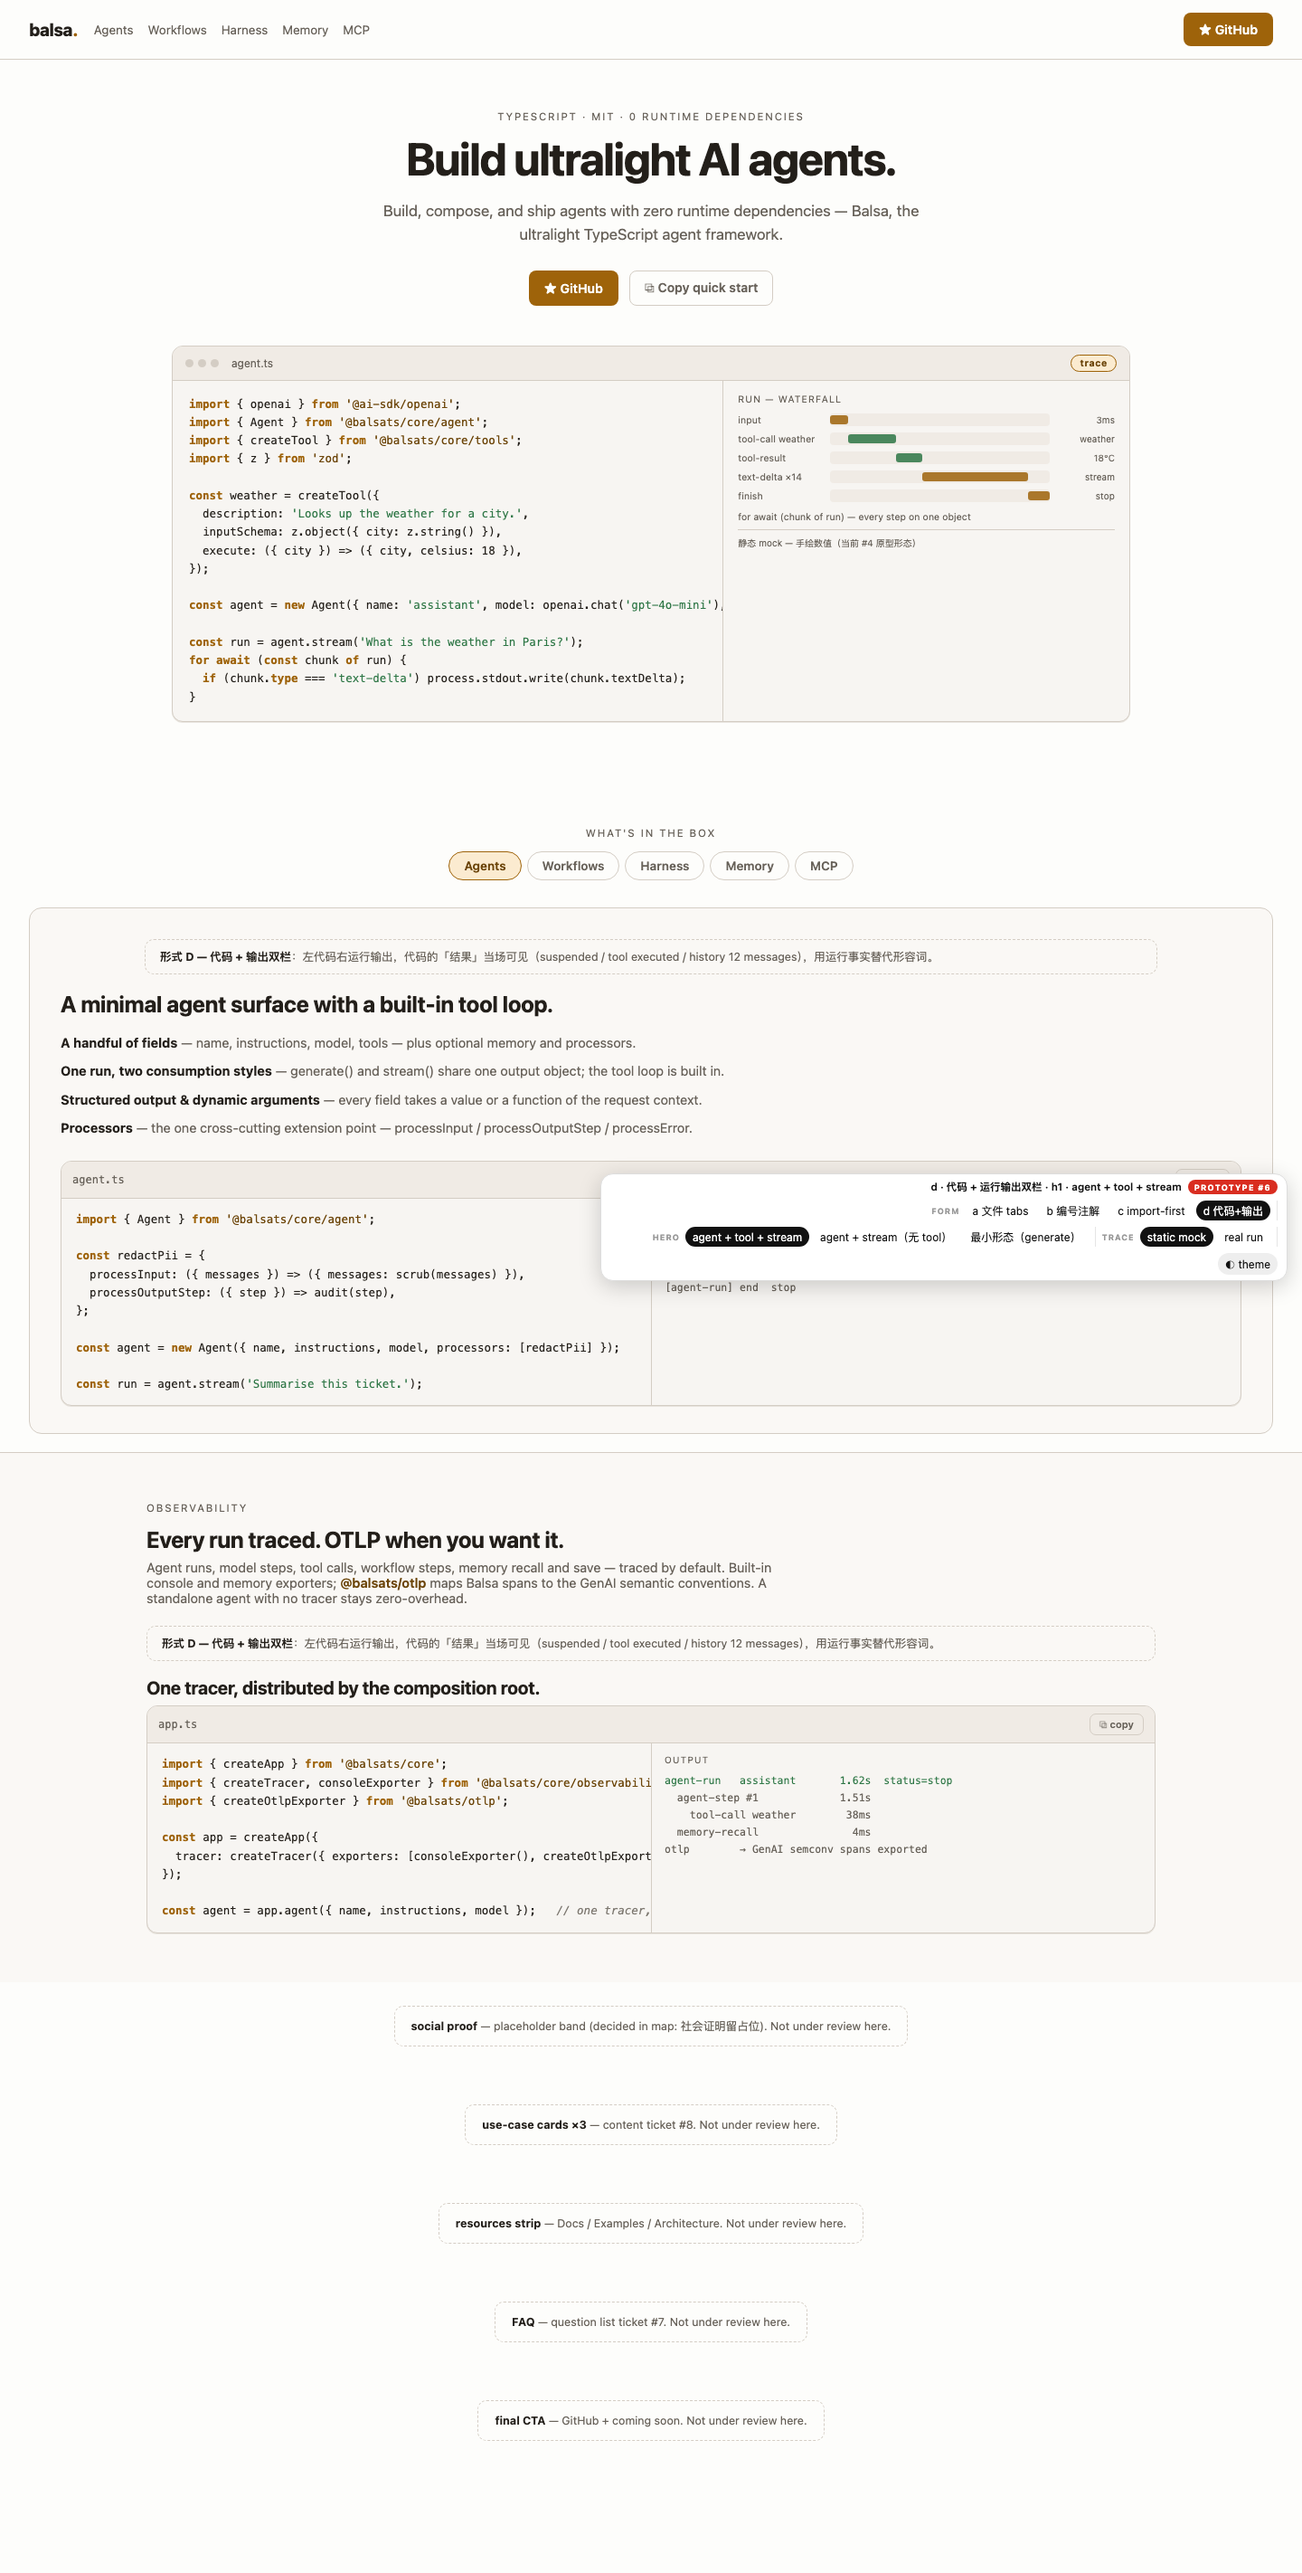
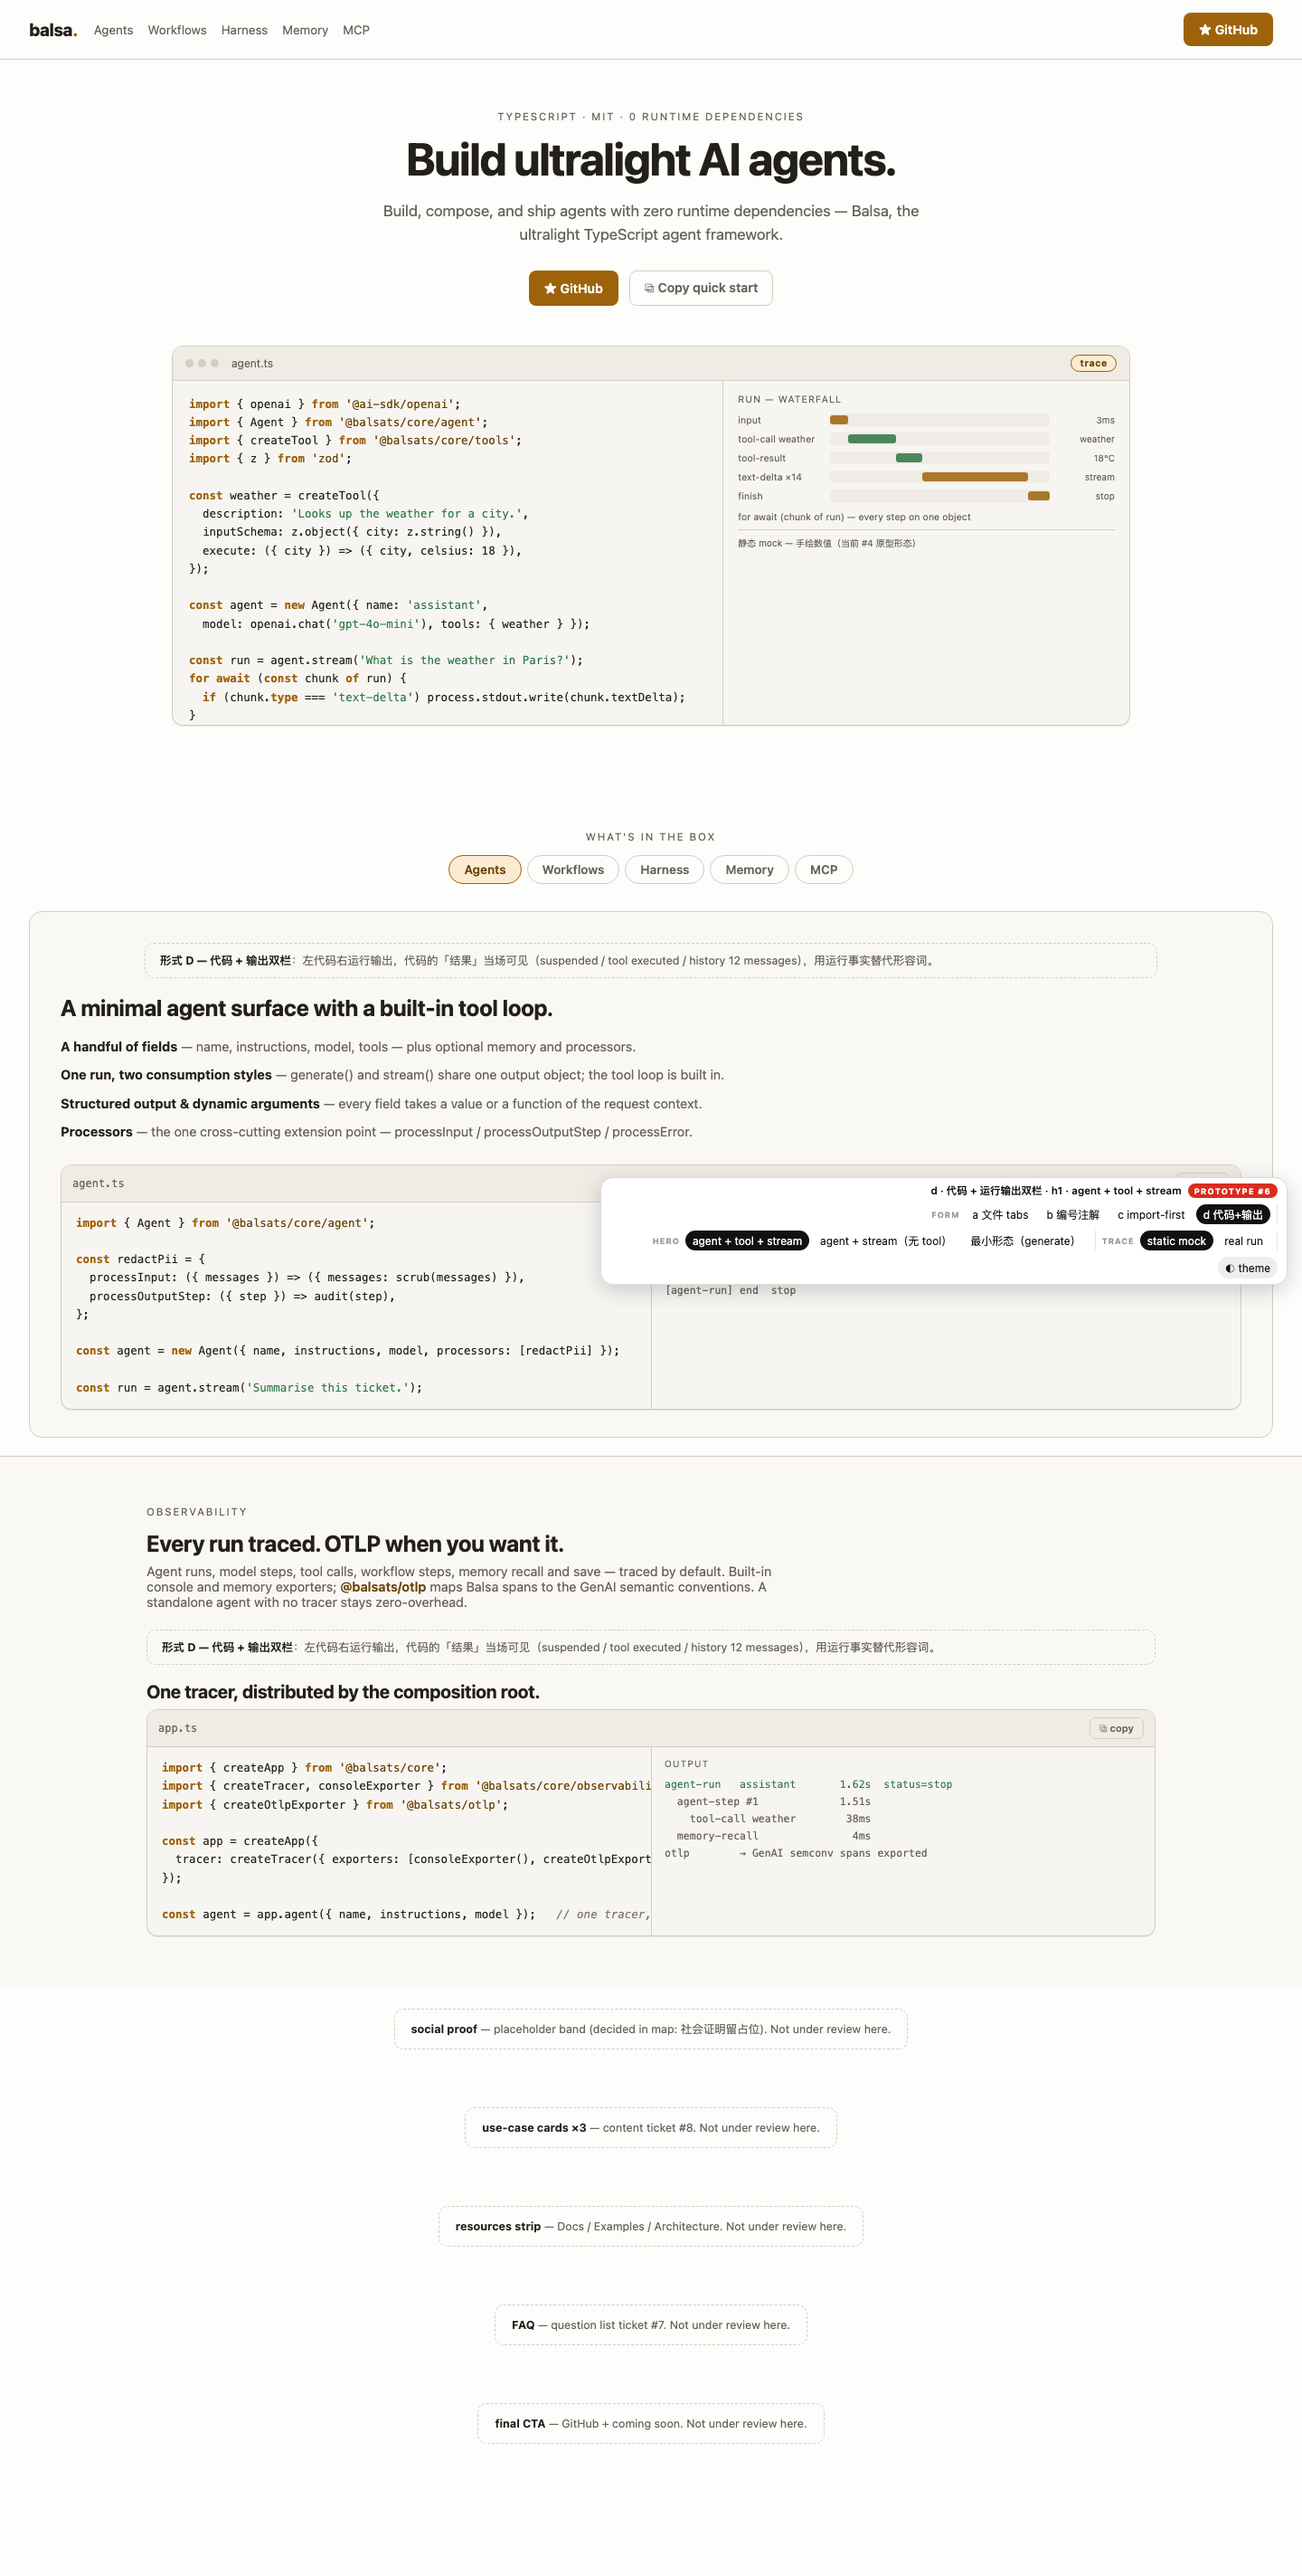
prototype(#6): winner finalized — form a 文件 tabs + hero h1 + trace real（默认组合落盘，README verdict）

diff --git a/prototype/code-samples/index.html b/prototype/code-samples/index.html
@@ -163,7 +163,7 @@
   .variantnote b { color: var(--fg); }
 </style>
 </head>
-<body data-variant="a" data-hero="h1" data-trace="mock" data-theme="light">
+<body data-variant="a" data-hero="h1" data-trace="real" data-theme="light">
 
 <div class="nav">
   <span class="wordmark">balsa<i>.</i></span>
@@ -259,7 +259,8 @@ const weather = createTool({
   execute: ({ city }) => ({ city, celsius: 18 }),
 });
 
-const agent = new Agent({ name: 'assistant', model: openai.chat('gpt-4o-mini'), tools: { weather } });
+const agent = new Agent({ name: 'assistant',
+  model: openai.chat('gpt-4o-mini'), tools: { weather } });
 
 const run = agent.stream('What is the weather in Paris?');
 for await (const chunk of run) {

diff --git a/prototype/code-samples/README.md b/prototype/code-samples/README.md
@@ -48,7 +48,16 @@ subpath composition visible at import level · no RAG / evals · no competitor n
 | MCP | `server.ts` (fetch/stdio) + `client.ts` (remote tools as plain tools) |
 | Observability | `createApp` + tracer with console + OTLP exporters |
 
-## Verdict (fills on close)
+## Verdict (2026-10-02, closes #6)
 
-Pending HITL discussion — winner form, hero candidate, trace provenance, and the final snippets land
-here and in the #6 resolution comment.
+**形式 A（文件 tabs，复刻 mastra）· hero h1（agent + tool + stream）· trace = 真实 run 截取（修剪后）·
+5 段 tab 代码 + observability 段按草稿定稿。**
+
+- 形式 B / C / D 弃用存档（原型可复查）；「Copy quick start」= hero 段逐字复制。
+- hero 段 17 行 = 上游「snippet ≤10 行」约定的**显式例外**（hero 窗内独立容器，2026-10-02 定）。
+- trace 修剪口径：真跑导出（`examples/minimal-agent`），trace id 截短、时长取整；只改标签不改结构。
+- 第二 file tab 保留：Workflows→`resume.ts`、Harness→`schedule.ts`（croner）、Memory→`sqlite.ts`、MCP→`client.ts`。
+
+`index.html` 默认已指向胜出组合（`?variant=a&hero=h1&trace=real`）；其余变体作为 primary source 留档。
+
+Not production code. The floating bar never ships. Do not fold into the real site.
